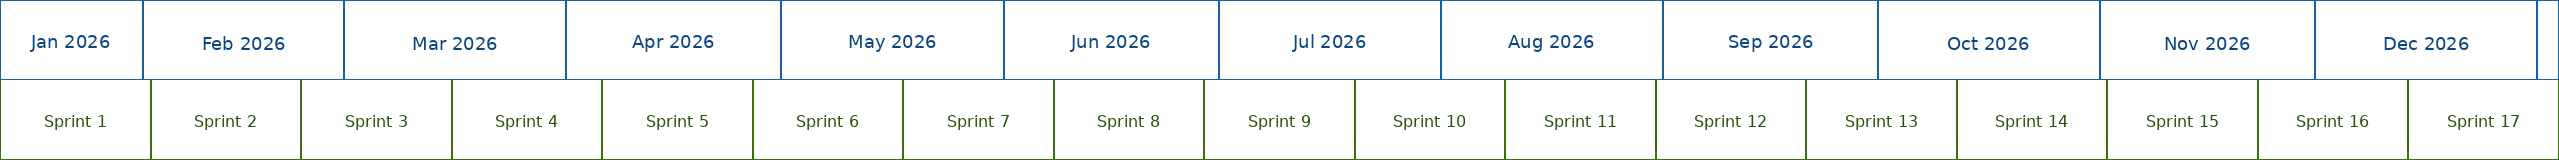
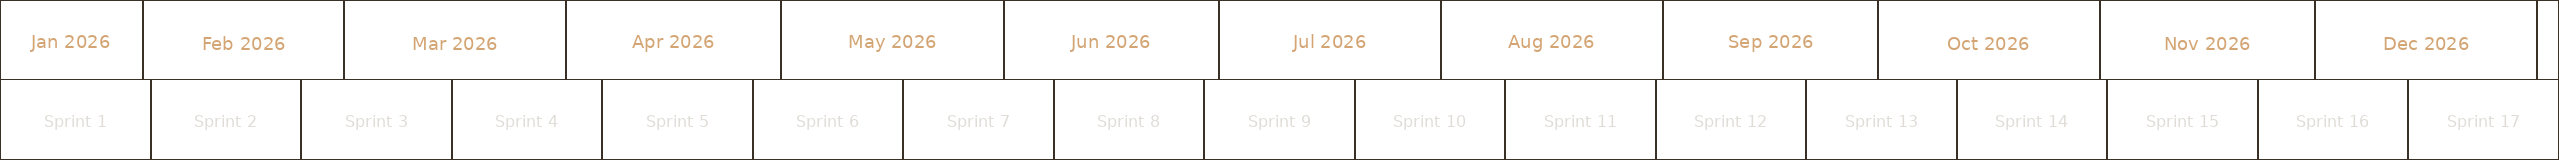
Add warm theme as default, regenerate readme images
New 'warm' theme with caramel accent on dark background, matching
the web app's UI. Set as default theme. Regenerated all readme
images using the warm theme. 23 themes total.

diff --git a/index.html b/index.html
@@ -784,7 +784,7 @@
 
   <script>
     // ── Themes ──────────────────────────────────────────────────────────────────
-    const THEMES = {"light":{"bg":[255,255,255],"month_bg":[230,241,251],"month_text":[12,68,124],"month_border":[24,95,165],"interval_bg":[234,243,222],"interval_text":[39,80,10],"interval_border":[59,109,17],"guideline":[0,0,0]},"dark":{"bg":[30,30,30],"month_bg":[25,55,90],"month_text":[180,210,240],"month_border":[40,90,150],"interval_bg":[35,60,25],"interval_text":[180,220,160],"interval_border":[55,100,30],"guideline":[255,255,255]},"solarized-dark":{"bg":[0,43,54],"month_bg":[7,54,66],"month_text":[131,148,150],"month_border":[38,139,210],"interval_bg":[7,54,66],"interval_text":[181,137,0],"interval_border":[133,153,0],"guideline":[255,255,255]},"solarized-light":{"bg":[253,246,227],"month_bg":[238,232,213],"month_text":[38,139,210],"month_border":[101,123,131],"interval_bg":[238,232,213],"interval_text":[133,153,0],"interval_border":[101,123,131],"guideline":[0,0,0]},"nord":{"bg":[46,52,64],"month_bg":[59,66,82],"month_text":[216,222,233],"month_border":[76,86,106],"interval_bg":[59,66,82],"interval_text":[163,190,140],"interval_border":[76,86,106],"guideline":[255,255,255]},"dracula":{"bg":[40,42,54],"month_bg":[68,71,90],"month_text":[189,147,249],"month_border":[98,114,164],"interval_bg":[68,71,90],"interval_text":[80,250,123],"interval_border":[98,114,164],"guideline":[255,255,255]},"monokai":{"bg":[39,40,34],"month_bg":[54,55,49],"month_text":[230,219,116],"month_border":[117,113,94],"interval_bg":[54,55,49],"interval_text":[166,226,46],"interval_border":[117,113,94],"guideline":[255,255,255]},"gruvbox-dark":{"bg":[40,40,40],"month_bg":[60,56,54],"month_text":[235,219,178],"month_border":[146,131,116],"interval_bg":[60,56,54],"interval_text":[184,187,38],"interval_border":[146,131,116],"guideline":[255,255,255]},"gruvbox-light":{"bg":[251,241,199],"month_bg":[235,219,178],"month_text":[69,133,136],"month_border":[168,153,132],"interval_bg":[235,219,178],"interval_text":[152,151,26],"interval_border":[168,153,132],"guideline":[0,0,0]},"catppuccin-mocha":{"bg":[30,30,46],"month_bg":[49,50,68],"month_text":[137,180,250],"month_border":[88,91,112],"interval_bg":[49,50,68],"interval_text":[166,227,161],"interval_border":[88,91,112],"guideline":[255,255,255]},"catppuccin-latte":{"bg":[239,241,245],"month_bg":[220,224,232],"month_text":[30,102,245],"month_border":[172,176,190],"interval_bg":[220,224,232],"interval_text":[64,160,43],"interval_border":[172,176,190],"guideline":[0,0,0]},"tokyo-night":{"bg":[26,27,38],"month_bg":[36,40,59],"month_text":[122,162,247],"month_border":[59,66,97],"interval_bg":[36,40,59],"interval_text":[158,206,106],"interval_border":[59,66,97],"guideline":[255,255,255]},"one-dark":{"bg":[40,44,52],"month_bg":[55,59,69],"month_text":[97,175,239],"month_border":[76,82,99],"interval_bg":[55,59,69],"interval_text":[152,195,121],"interval_border":[76,82,99],"guideline":[255,255,255]},"one-light":{"bg":[250,250,250],"month_bg":[232,232,232],"month_text":[64,120,242],"month_border":[200,200,200],"interval_bg":[232,232,232],"interval_text":[80,161,79],"interval_border":[200,200,200],"guideline":[0,0,0]},"github-light":{"bg":[255,255,255],"month_bg":[246,248,250],"month_text":[31,35,40],"month_border":[208,215,222],"interval_bg":[246,248,250],"interval_text":[26,127,55],"interval_border":[208,215,222],"guideline":[0,0,0]},"github-dark":{"bg":[13,17,23],"month_bg":[22,27,34],"month_text":[201,209,217],"month_border":[48,54,61],"interval_bg":[22,27,34],"interval_text":[63,185,80],"interval_border":[48,54,61],"guideline":[255,255,255]},"high-contrast":{"bg":[0,0,0],"month_bg":[0,0,0],"month_text":[255,255,255],"month_border":[255,255,255],"interval_bg":[0,0,0],"interval_text":[255,255,0],"interval_border":[255,255,255],"guideline":[255,255,255]},"pastel":{"bg":[255,255,255],"month_bg":[255,209,220],"month_text":[120,50,70],"month_border":[200,150,165],"interval_bg":[193,225,193],"interval_text":[45,80,45],"interval_border":[140,180,140],"guideline":[0,0,0]},"ocean":{"bg":[11,19,43],"month_bg":[18,32,65],"month_text":[100,200,255],"month_border":[30,60,110],"interval_bg":[18,32,65],"interval_text":[0,230,180],"interval_border":[30,60,110],"guideline":[255,255,255]},"sunset":{"bg":[45,20,44],"month_bg":[75,30,60],"month_text":[255,170,100],"month_border":[120,50,80],"interval_bg":[75,30,60],"interval_text":[255,210,70],"interval_border":[120,50,80],"guideline":[255,255,255]},"forest":{"bg":[20,30,20],"month_bg":[30,50,30],"month_text":[150,210,130],"month_border":[50,80,50],"interval_bg":[30,50,30],"interval_text":[200,230,150],"interval_border":[50,80,50],"guideline":[255,255,255]},"mint":{"bg":[21,21,21],"month_bg":[21,21,21],"month_text":[40,245,190],"month_border":[40,245,190],"interval_bg":[21,21,21],"interval_text":[40,245,190],"interval_border":[40,245,190],"guideline":[40,245,190]}};
+    const THEMES = {"light":{"bg":[255,255,255],"month_bg":[230,241,251],"month_text":[12,68,124],"month_border":[24,95,165],"interval_bg":[234,243,222],"interval_text":[39,80,10],"interval_border":[59,109,17],"guideline":[0,0,0]},"dark":{"bg":[30,30,30],"month_bg":[25,55,90],"month_text":[180,210,240],"month_border":[40,90,150],"interval_bg":[35,60,25],"interval_text":[180,220,160],"interval_border":[55,100,30],"guideline":[255,255,255]},"solarized-dark":{"bg":[0,43,54],"month_bg":[7,54,66],"month_text":[131,148,150],"month_border":[38,139,210],"interval_bg":[7,54,66],"interval_text":[181,137,0],"interval_border":[133,153,0],"guideline":[255,255,255]},"solarized-light":{"bg":[253,246,227],"month_bg":[238,232,213],"month_text":[38,139,210],"month_border":[101,123,131],"interval_bg":[238,232,213],"interval_text":[133,153,0],"interval_border":[101,123,131],"guideline":[0,0,0]},"nord":{"bg":[46,52,64],"month_bg":[59,66,82],"month_text":[216,222,233],"month_border":[76,86,106],"interval_bg":[59,66,82],"interval_text":[163,190,140],"interval_border":[76,86,106],"guideline":[255,255,255]},"dracula":{"bg":[40,42,54],"month_bg":[68,71,90],"month_text":[189,147,249],"month_border":[98,114,164],"interval_bg":[68,71,90],"interval_text":[80,250,123],"interval_border":[98,114,164],"guideline":[255,255,255]},"monokai":{"bg":[39,40,34],"month_bg":[54,55,49],"month_text":[230,219,116],"month_border":[117,113,94],"interval_bg":[54,55,49],"interval_text":[166,226,46],"interval_border":[117,113,94],"guideline":[255,255,255]},"gruvbox-dark":{"bg":[40,40,40],"month_bg":[60,56,54],"month_text":[235,219,178],"month_border":[146,131,116],"interval_bg":[60,56,54],"interval_text":[184,187,38],"interval_border":[146,131,116],"guideline":[255,255,255]},"gruvbox-light":{"bg":[251,241,199],"month_bg":[235,219,178],"month_text":[69,133,136],"month_border":[168,153,132],"interval_bg":[235,219,178],"interval_text":[152,151,26],"interval_border":[168,153,132],"guideline":[0,0,0]},"catppuccin-mocha":{"bg":[30,30,46],"month_bg":[49,50,68],"month_text":[137,180,250],"month_border":[88,91,112],"interval_bg":[49,50,68],"interval_text":[166,227,161],"interval_border":[88,91,112],"guideline":[255,255,255]},"catppuccin-latte":{"bg":[239,241,245],"month_bg":[220,224,232],"month_text":[30,102,245],"month_border":[172,176,190],"interval_bg":[220,224,232],"interval_text":[64,160,43],"interval_border":[172,176,190],"guideline":[0,0,0]},"tokyo-night":{"bg":[26,27,38],"month_bg":[36,40,59],"month_text":[122,162,247],"month_border":[59,66,97],"interval_bg":[36,40,59],"interval_text":[158,206,106],"interval_border":[59,66,97],"guideline":[255,255,255]},"one-dark":{"bg":[40,44,52],"month_bg":[55,59,69],"month_text":[97,175,239],"month_border":[76,82,99],"interval_bg":[55,59,69],"interval_text":[152,195,121],"interval_border":[76,82,99],"guideline":[255,255,255]},"one-light":{"bg":[250,250,250],"month_bg":[232,232,232],"month_text":[64,120,242],"month_border":[200,200,200],"interval_bg":[232,232,232],"interval_text":[80,161,79],"interval_border":[200,200,200],"guideline":[0,0,0]},"github-light":{"bg":[255,255,255],"month_bg":[246,248,250],"month_text":[31,35,40],"month_border":[208,215,222],"interval_bg":[246,248,250],"interval_text":[26,127,55],"interval_border":[208,215,222],"guideline":[0,0,0]},"github-dark":{"bg":[13,17,23],"month_bg":[22,27,34],"month_text":[201,209,217],"month_border":[48,54,61],"interval_bg":[22,27,34],"interval_text":[63,185,80],"interval_border":[48,54,61],"guideline":[255,255,255]},"high-contrast":{"bg":[0,0,0],"month_bg":[0,0,0],"month_text":[255,255,255],"month_border":[255,255,255],"interval_bg":[0,0,0],"interval_text":[255,255,0],"interval_border":[255,255,255],"guideline":[255,255,255]},"pastel":{"bg":[255,255,255],"month_bg":[255,209,220],"month_text":[120,50,70],"month_border":[200,150,165],"interval_bg":[193,225,193],"interval_text":[45,80,45],"interval_border":[140,180,140],"guideline":[0,0,0]},"ocean":{"bg":[11,19,43],"month_bg":[18,32,65],"month_text":[100,200,255],"month_border":[30,60,110],"interval_bg":[18,32,65],"interval_text":[0,230,180],"interval_border":[30,60,110],"guideline":[255,255,255]},"sunset":{"bg":[45,20,44],"month_bg":[75,30,60],"month_text":[255,170,100],"month_border":[120,50,80],"interval_bg":[75,30,60],"interval_text":[255,210,70],"interval_border":[120,50,80],"guideline":[255,255,255]},"forest":{"bg":[20,30,20],"month_bg":[30,50,30],"month_text":[150,210,130],"month_border":[50,80,50],"interval_bg":[30,50,30],"interval_text":[200,230,150],"interval_border":[50,80,50],"guideline":[255,255,255]},"mint":{"bg":[21,21,21],"month_bg":[21,21,21],"month_text":[40,245,190],"month_border":[40,245,190],"interval_bg":[21,21,21],"interval_text":[40,245,190],"interval_border":[40,245,190],"guideline":[40,245,190]},"warm":{"bg":[26,26,28],"month_bg":[33,33,35],"month_text":[212,165,116],"month_border":[58,48,37],"interval_bg":[33,33,35],"interval_text":[224,221,216],"interval_border":[58,48,37],"guideline":[212,165,116]}};
 
     // Populate theme select
     const themeSelect = document.getElementById('theme');
@@ -792,7 +792,7 @@
       const opt = document.createElement('option');
       opt.value = name;
       opt.textContent = name;
-      if (name === 'light') opt.selected = true;
+      if (name === 'warm') opt.selected = true;
       themeSelect.appendChild(opt);
     }
 

diff --git a/README.md b/README.md
@@ -31,9 +31,9 @@ Everything runs client-side. No dependencies, no build step.
 
 ## Themes
 
-22 built-in themes:
+23 built-in themes (default: **warm**):
 
-`catppuccin-latte` `catppuccin-mocha` `dark` `dracula` `forest` `github-dark` `github-light` `gruvbox-dark` `gruvbox-light` `high-contrast` `light` `mint` `monokai` `nord` `ocean` `one-dark` `one-light` `pastel` `solarized-dark` `solarized-light` `sunset` `tokyo-night`
+`catppuccin-latte` `catppuccin-mocha` `dark` `dracula` `forest` `github-dark` `github-light` `gruvbox-dark` `gruvbox-light` `high-contrast` `light` `mint` `monokai` `nord` `ocean` `one-dark` `one-light` `pastel` `solarized-dark` `solarized-light` `sunset` `tokyo-night` `warm`
 
 ![dark theme example](assets/readme_dark.png)
 
@@ -55,7 +55,7 @@ Settings can be saved/loaded as JSON. All fields are optional except dates.
   "strip_height": 160,
   "height": 1440,
   "padding": { "top": 120 },
-  "theme": "light",
+  "theme": "warm",
   "transparent": false,
   "guidelines": true,
   "guidelines_bg": "transparent",
